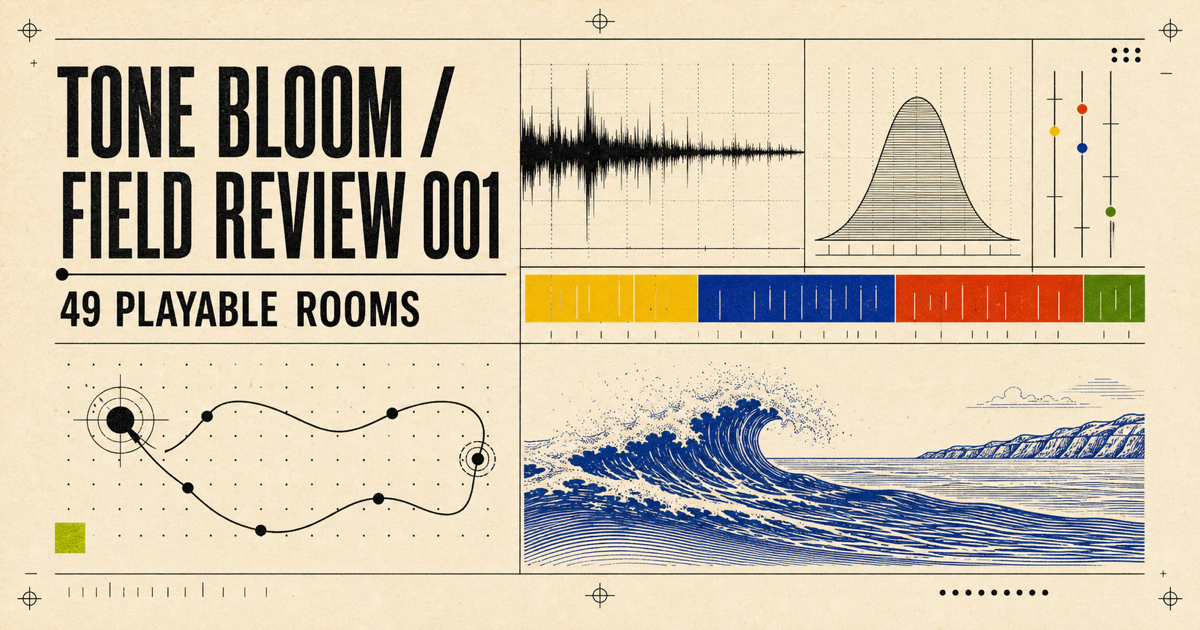
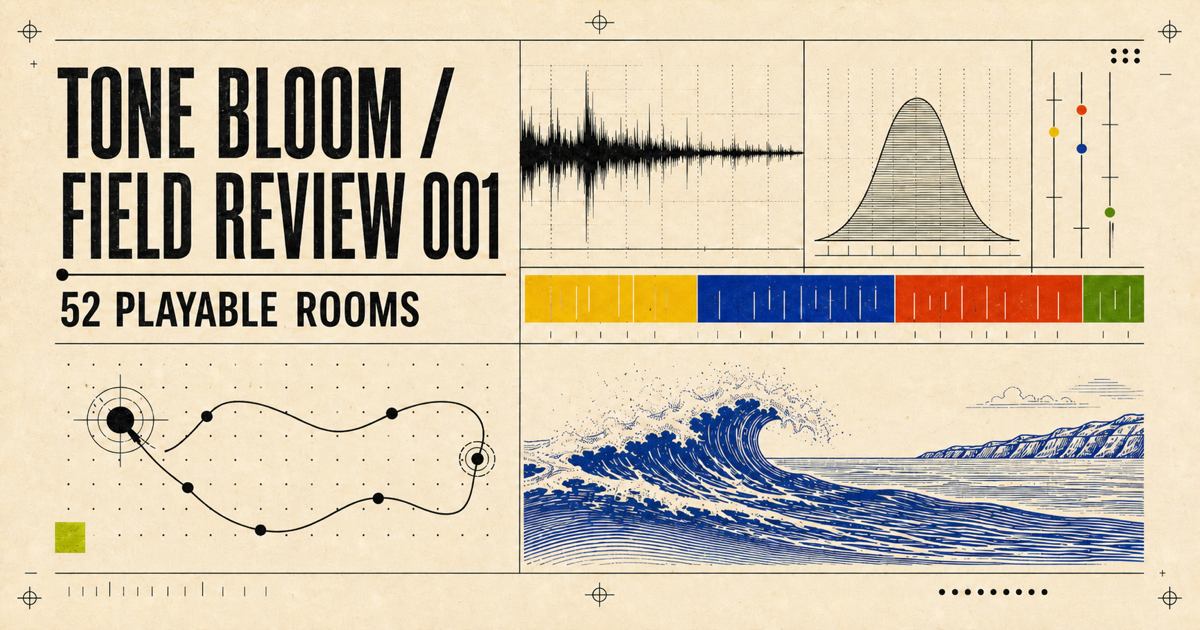
Update Tone Bloom field note to 52 rooms

diff --git a/public/editorial/tone-bloom-field-review/index.html b/public/editorial/tone-bloom-field-review/index.html
@@ -3,20 +3,20 @@
   <head>
     <meta charset="UTF-8" />
     <meta name="viewport" content="width=device-width, initial-scale=1.0, viewport-fit=cover" />
-    <meta name="description" content="Tone Bloom is a laboratory for browser-native play: 49 finite sound rooms, six research lines, and six clear ways to help it grow." />
+    <meta name="description" content="Tone Bloom is a laboratory for browser-native play: 52 finite sound rooms, six research lines, and six clear ways to help it grow." />
     <meta name="theme-color" content="#133aa7" />
     <meta property="og:type" content="article" />
     <meta property="og:site_name" content="Industry Next" />
     <meta property="og:title" content="Tone Bloom Is a Laboratory for Play" />
-    <meta property="og:description" content="Forty-nine browser-native sound rooms and a practical invitation to grow the field." />
+    <meta property="og:description" content="Fifty-two browser-native sound rooms and a practical invitation to grow the field." />
     <meta property="og:url" content="https://www.industrynext.xyz/editorial/tone-bloom-field-review/" />
     <meta property="og:image" content="https://www.industrynext.xyz/editorial/tone-bloom-field-review/tone-bloom-field-review-og.png" />
     <meta property="og:image:width" content="1200" />
     <meta property="og:image:height" content="630" />
-    <meta property="og:image:alt" content="Tone Bloom Field Review 001, a blue and yellow laboratory card for 49 playable rooms" />
+    <meta property="og:image:alt" content="Tone Bloom Field Review 001, a blue and yellow laboratory card for 52 playable rooms" />
     <meta name="twitter:card" content="summary_large_image" />
     <meta name="twitter:title" content="Tone Bloom Is a Laboratory for Play" />
-    <meta name="twitter:description" content="What 49 small browser instruments teach us about finite play—and how to contribute to the next set." />
+    <meta name="twitter:description" content="What 52 small browser instruments teach us about finite play—and how to contribute to the next set." />
     <meta name="twitter:image" content="https://www.industrynext.xyz/editorial/tone-bloom-field-review/tone-bloom-field-review-og.png" />
     <link rel="canonical" href="https://www.industrynext.xyz/editorial/tone-bloom-field-review/" />
     <link rel="alternate" type="application/json" href="/tone-bloom-field-review.json" />
@@ -28,7 +28,7 @@
         "@context": "https://schema.org",
         "@type": "Article",
         "headline": "Tone Bloom Is a Laboratory for Play",
-        "description": "Tone Bloom is a laboratory for browser-native play: 49 finite sound rooms, six research lines, and six clear ways to help it grow.",
+        "description": "Tone Bloom is a laboratory for browser-native play: 52 finite sound rooms, six research lines, and six clear ways to help it grow.",
         "datePublished": "2026-08-03",
         "dateModified": "2026-08-03",
         "author": { "@type": "Person", "name": "Michael Hoydich" },
@@ -55,7 +55,7 @@
           <div class="tb-hero-copy">
             <p class="tb-kicker">TONE BLOOM / A BROWSER-NATIVE PLAY LABORATORY</p>
             <h1>Tone Bloom is a laboratory for play.</h1>
-            <p class="tb-deck">Forty-nine sound rooms and a simple question: what can grow when the internet stops behaving like a feed and starts behaving like an instrument?</p>
+            <p class="tb-deck">Fifty-two sound rooms and a simple question: what can grow when the internet stops behaving like a feed and starts behaving like an instrument?</p>
             <div class="tb-byline">
               <span>CONCEPT + EDITORIAL DIRECTION · MICHAEL HOYDICH</span>
               <span>WRITTEN WITH CODEX · GPT-5.6 SOL · EXTRA-HIGH REASONING</span>
@@ -63,7 +63,7 @@
             </div>
           </div>
           <figure class="tb-hero-art">
-            <img src="/editorial/tone-bloom-field-review/tone-bloom-field-review-og.png" width="1200" height="630" alt="Tone Bloom Field Review 001, a laboratory card for 49 playable rooms" />
+            <img src="/editorial/tone-bloom-field-review/tone-bloom-field-review-og.png" width="1200" height="630" alt="Tone Bloom Field Review 001, a laboratory card for 52 playable rooms" />
             <figcaption>FIELD REVIEW 001 / THE CURRENT CATALOG, READ AS ONE INSTRUMENT.</figcaption>
           </figure>
         </header>
@@ -74,9 +74,9 @@
             <h2 id="place-title">The browser can be a place, not a page.</h2>
             <p class="tb-lede">Tone Bloom makes small, original Web Audio worlds for a thumb, a pointer, a few keys, and sometimes a friend. There is no account to improve, no inventory to protect, and no endless stream waiting below the fold. A room begins. It teaches one gesture. It answers. Then it ends or lets you leave.</p>
             <p>That modest frame is the project’s force. Each room is less like a software feature than a piece of research apparatus: one interaction hypothesis, one sound world, one duration, one chance to learn whether the hand and ear understand each other.</p>
-            <p>The current catalog contains 49 rooms—games, scores, image journeys, rituals, weather instruments, cooperative relays, and questions. Together, they are not a menu of unrelated experiments. They are a record of a medium learning what it can do.</p>
+            <p>The current catalog contains 52 rooms—games, scores, image journeys, rituals, weather instruments, cooperative relays, work-life studies, and questions. Together, they are not a menu of unrelated experiments. They are a record of a medium learning what it can do.</p>
             <div class="tb-actions">
-              <a class="tb-button" href="https://tonebloom.xyz/about/field-review">Read all 49 laboratory notes ↗</a>
+              <a class="tb-button" href="https://tonebloom.xyz/about/field-review">Read all 52 laboratory notes ↗</a>
               <a class="tb-text-link" href="https://tonebloom.xyz/blooms">Open the rooms ↗</a>
             </div>
           </div>
@@ -84,14 +84,14 @@
         </section>
 
         <section class="tb-lines" aria-labelledby="lines-title">
-          <div class="tb-section-head"><p class="tb-section-mark">02 / SIX RESEARCH LINES</p><h2 id="lines-title">Forty-nine rooms, six continuing questions.</h2></div>
+          <div class="tb-section-head"><p class="tb-section-mark">02 / SIX RESEARCH LINES</p><h2 id="lines-title">Fifty-two rooms, six continuing questions.</h2></div>
           <div class="tb-line-grid">
             <article><span>01–07</span><h3>Attention</h3><p>Can a finite room create enough anticipation that a quiet gesture feels consequential?</p></article>
             <article><span>08–15</span><h3>Movement</h3><p>Can steering, falling, rising, and racing become music without borrowing a game’s reward machinery?</p></article>
             <article><span>16–24</span><h3>Image as score</h3><p>Can photographs and colors behave like notation—something played, not merely viewed?</p></article>
             <article><span>25–32</span><h3>Sequence + relay</h3><p>Can a few ordered stages teach a richer instrument, including one passed between two people?</p></article>
             <article><span>33–42</span><h3>Air + presence</h3><p>Can weather, live rooms, and visible motion make shared presence felt without a social feed?</p></article>
-            <article><span>43–49</span><h3>Question + coast</h3><p>Can product feedback and a Sunday shoreline become authored play rather than utility or content?</p></article>
+            <article><span>43–52</span><h3>Question + coast + work</h3><p>Can product feedback, a Sunday shoreline, and life after the workday become authored play rather than utility or content?</p></article>
           </div>
         </section>
 

diff --git a/public/index.html b/public/index.html
@@ -193,15 +193,15 @@
 
       <section class="tone-review-band" aria-labelledby="tone-review-title">
         <a class="tone-review-image" href="/editorial/tone-bloom-field-review/" aria-label="Read Tone Bloom Is a Laboratory for Play">
-          <img src="/editorial/tone-bloom-field-review/tone-bloom-field-review-og.png" width="1200" height="630" alt="Tone Bloom Field Review 001, 49 playable rooms" loading="lazy" />
+          <img src="/editorial/tone-bloom-field-review/tone-bloom-field-review-og.png" width="1200" height="630" alt="Tone Bloom Field Review 001, 52 playable rooms" loading="lazy" />
         </a>
         <div class="tone-review-copy">
           <p class="section-index">FIELD NOTE 002 / TONE BLOOM</p>
           <h2 id="tone-review-title">A laboratory<br />for <em>play.</em></h2>
-          <p>Forty-nine browser-native sound rooms, six continuing research lines, and six specific ways to help the field grow—without turning it into another feed.</p>
+          <p>Fifty-two browser-native sound rooms, six continuing research lines, and six specific ways to help the field grow—without turning it into another feed.</p>
           <div class="tone-review-actions">
             <a class="button button-dark" href="/editorial/tone-bloom-field-review/">Read the field note <span aria-hidden="true">↗</span></a>
-            <a href="https://tonebloom.xyz/about/field-review">Review all 49 rooms <span aria-hidden="true">↗</span></a>
+            <a href="https://tonebloom.xyz/about/field-review">Review all 52 rooms <span aria-hidden="true">↗</span></a>
           </div>
         </div>
       </section>
